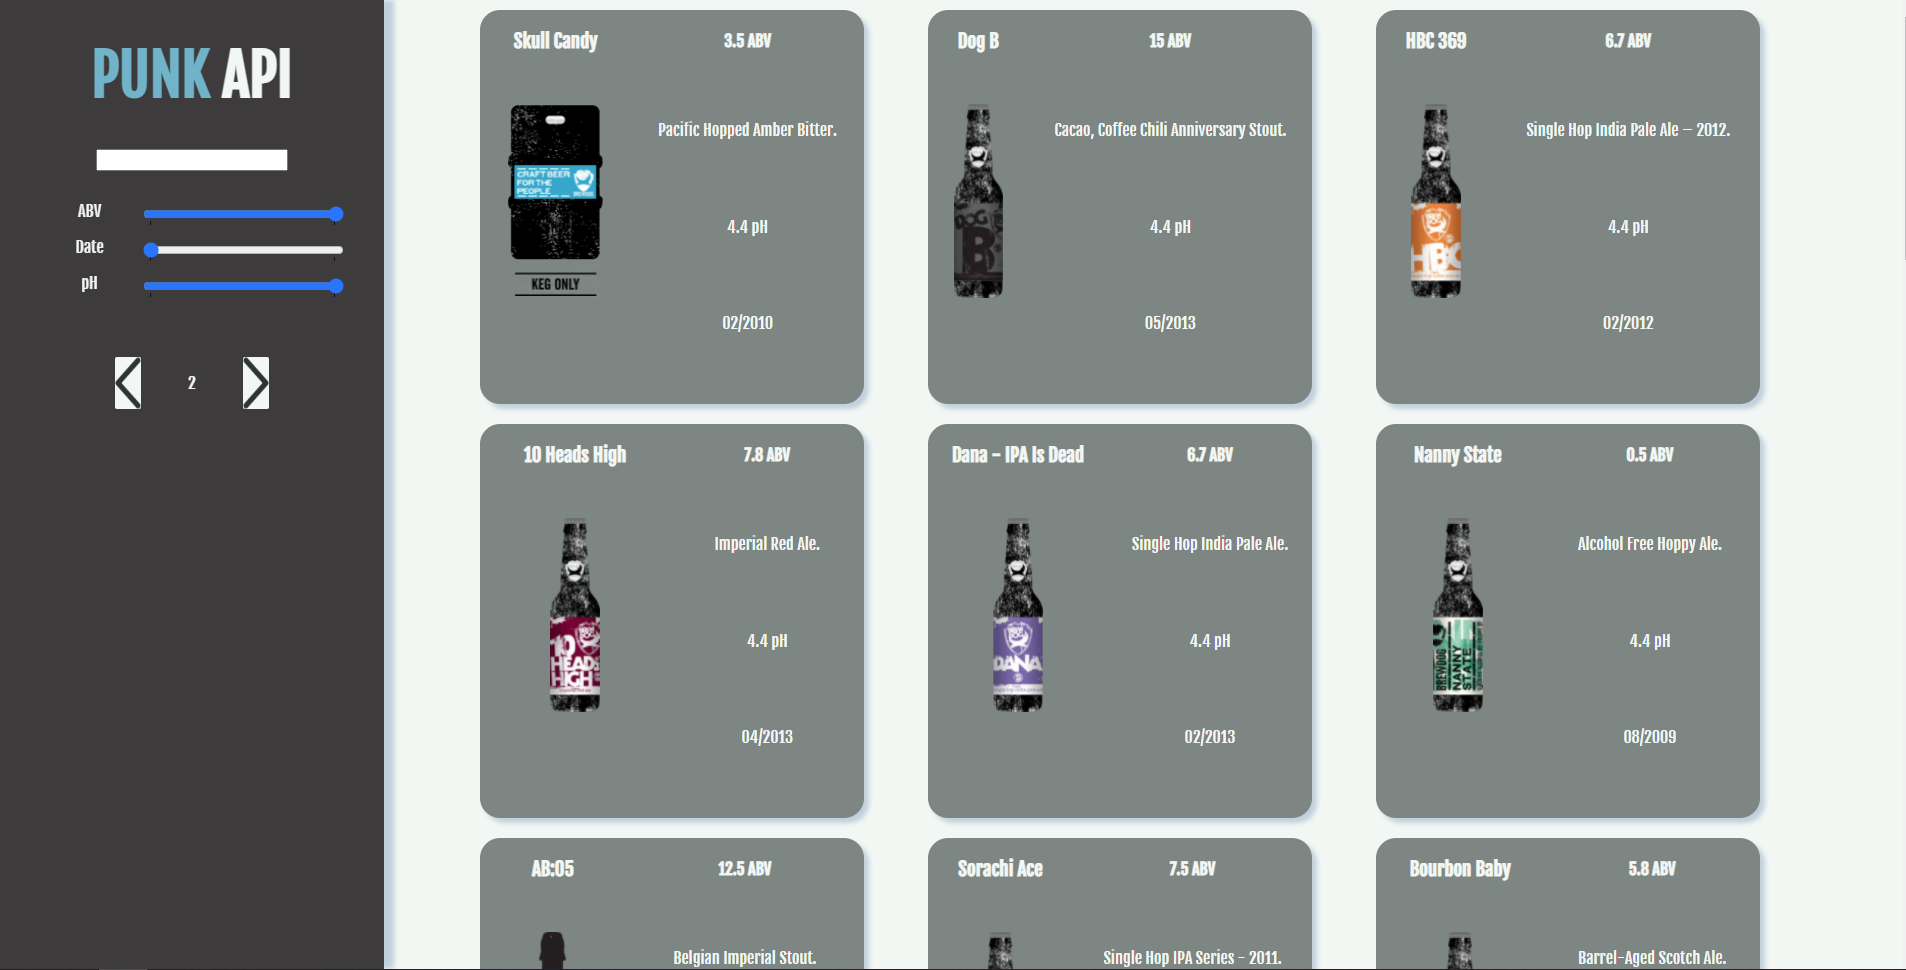
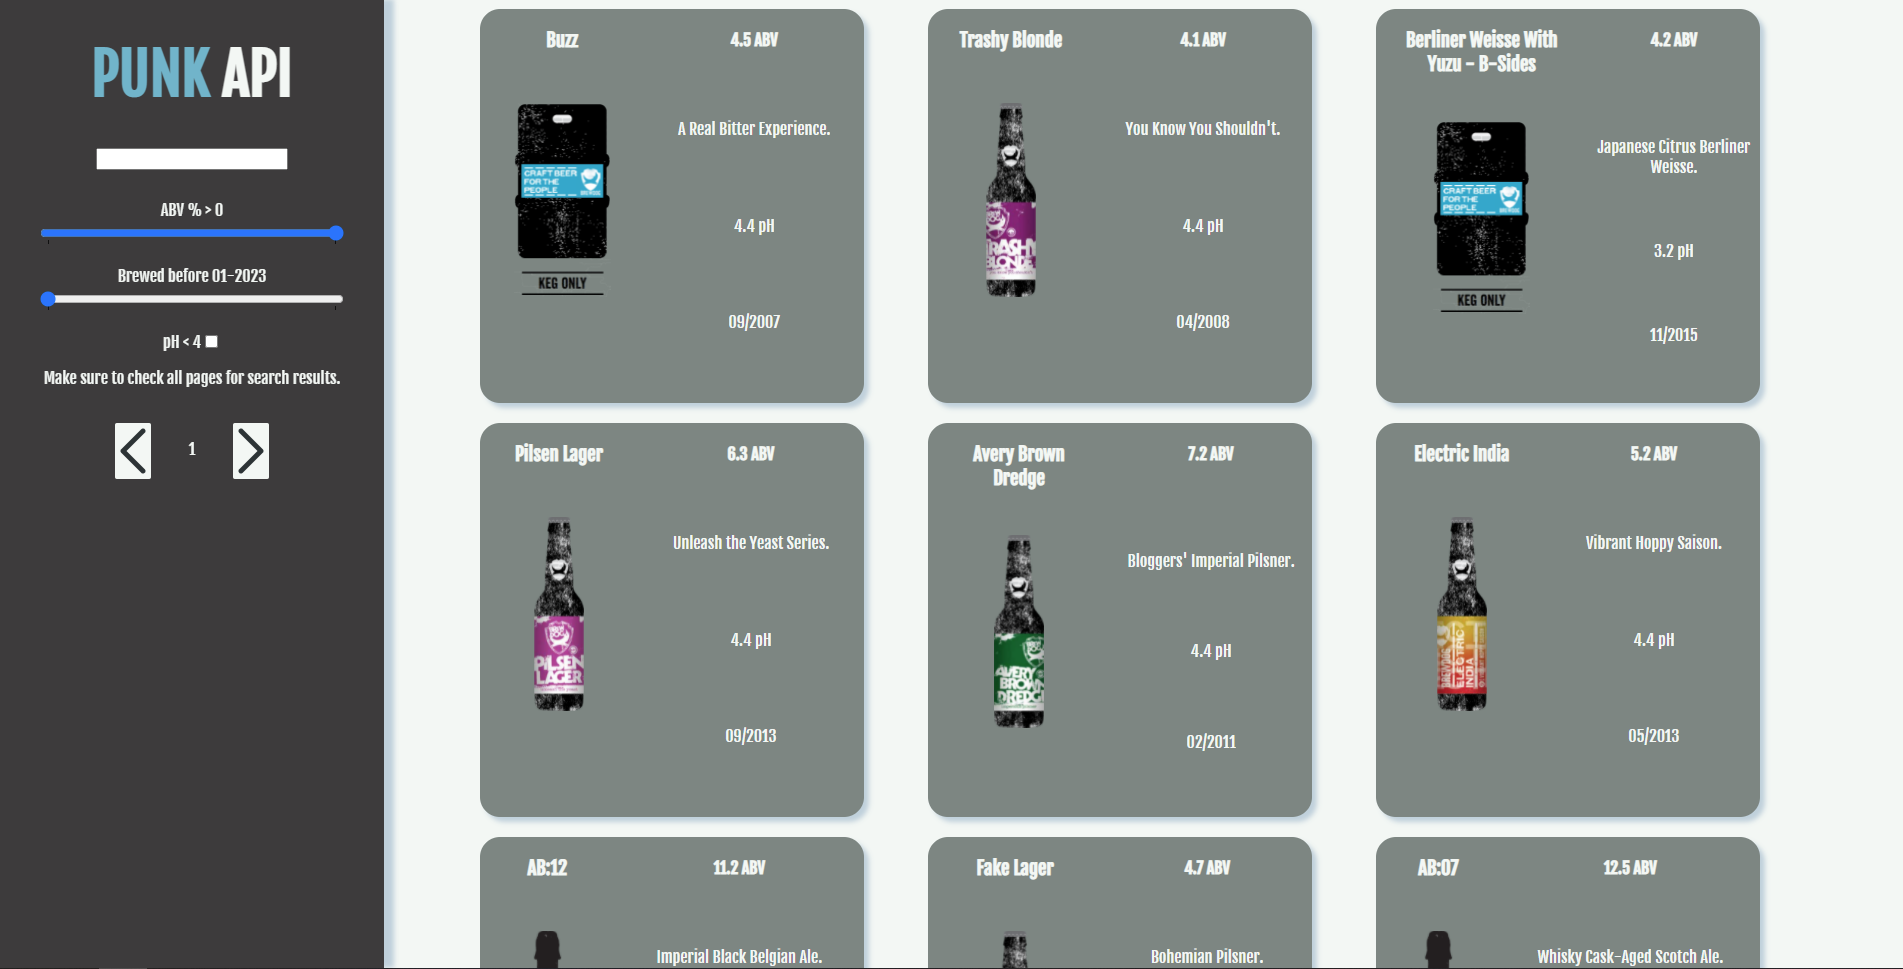
Updates to where filters are handled

diff --git a/src/App.jsx b/src/App.jsx
@@ -5,25 +5,25 @@ import Main from "./containers/Main/Main";
 
 const App = () => {
 
-  const defaultUrl = "https://api.punkapi.com/v2/beers?";
+  const defaultUrl = "https://api.punkapi.com/v2/beers?per_page=80&";
 
   const initialSearchParams = {
     beer_name: "",
-    ph: 0,
     abv_gt: 0,
-    brewed_before: `01-${new Date().getFullYear()+1}`,
+    brewed_before: `01-${Number(new Date().getFullYear())+1}`,
     page: 1
   }
 
   const [beers, setBeers] = useState([]);
   const [apiUrl, setApiUrl] = useState(defaultUrl);
   const [searchParams, setSearchParams] = useState(initialSearchParams);
+  const [usePh, setUsePh] = useState(false);
   
   const getBeersList = (url) => {
     return fetch(url)
       .then(response => response.json())
       .then(data => setBeers(data));
-  }
+  };
 
   useEffect(() => {
     getBeersList(apiUrl);
@@ -37,8 +37,6 @@ const App = () => {
       startingParams.abv_gt = event.target.value;
     } else if(event.target.id === "nav__Date") {
       startingParams.brewed_before = `01-${event.target.value}`;
-    } else if(event.target.id === "nav__pH") {
-      startingParams.ph = event.target.value;  
     } else if(event.target.id === "nav__page-plus") {
       startingParams.page++;
     } else if(event.target.id === "nav__page-minus" && startingParams.page > 1) {
@@ -46,25 +44,22 @@ const App = () => {
     }
     setSearchParams(startingParams);
     updateUrl();
-    changeForPh();
   }
 
-  const changeForPh = () => {
-    const filteredBeerList = beers.filter(beer => {return(beer.ph && (Number(beer.ph) < searchParams.ph))});
-    setBeers(filteredBeerList);
+  const handleUsePh = () => {
+    setUsePh(!usePh);
   }
 
   const updateUrl = () => {
-    let currentUrl = defaultUrl + `page=${searchParams.page}&`;
-    if(searchParams.beer_name) currentUrl += `beer_name=${searchParams.beer_name}&`; 
-    currentUrl += `abv_gt=${searchParams.abv_gt}&brewed_before=${searchParams.brewed_before}`;
+    let currentUrl = defaultUrl + `page=${searchParams.page}&abv_gt=${searchParams.abv_gt}&brewed_before=${searchParams.brewed_before}&`;
+    if(searchParams.beer_name) currentUrl += `beer_name=${searchParams.beer_name}`; 
     setApiUrl(currentUrl);
   }
 
   return (
     <div className="App">
-      <Navbar changeSearchParams={changeSearchParams} currentSearchParams={searchParams}/>
-      <Main beers={beers}/>
+      <Navbar changeSearchParams={changeSearchParams} currentSearchParams={searchParams} handleUsePh={handleUsePh} usePh={usePh}/>
+      <Main beers={beers} usePh={usePh}/>
     </div>
   );
 }

diff --git a/src/containers/Navbar/Navbar.jsx b/src/containers/Navbar/Navbar.jsx
@@ -9,7 +9,9 @@ import rightArrow from "./../../assets/right-arrow.png";
 
 const Navbar = (props) => {
 
-  const {changeSearchParams, currentSearchParams} = props;
+  const {changeSearchParams, currentSearchParams, handleUsePh, usePh} = props;
+
+  const phLabel = `pH < 4`;
 
   return (
     <div className="nav">
@@ -17,10 +19,12 @@ const Navbar = (props) => {
       <div className="nav__search">
         <SearchBox changeSearchParams={changeSearchParams}/>
         <div className="nav__filters">
-          <FilterItem name="nav__ABV" min="0" max="12" step="0.5" changeSearchParams={changeSearchParams}/>
-          <FilterItem name="nav__Date" min="2008" max="2023" step="1" changeSearchParams={changeSearchParams}/>
-          <FilterItem name="nav__pH" min="3" max="6" step="0.2" changeSearchParams={changeSearchParams}/>
+          <FilterItem name="nav__ABV" min="0" max="12" step="0.5" changeSearchParams={changeSearchParams} value={currentSearchParams.abv_gt} label="ABV % > "/>
+          <FilterItem name="nav__Date" min="2008" max="2023" step="1" changeSearchParams={changeSearchParams} value={currentSearchParams.brewed_before} label="Brewed before" />
+          <label htmlFor="nav__ph">{phLabel}</label>
+          <input type="checkbox" checked={usePh} onChange={handleUsePh} id="nav__ph" name="nav__ph"/>
         </div>
+        <p>Make sure to check all pages for search results.</p>
         <div className="nav__change-page">
           <ChangePageButton id="nav__page-plus" img={rightArrow} changeSearchParams={changeSearchParams} />
           <p className="nav__text">{currentSearchParams.page}</p>

diff --git a/src/containers/Cardlist/Cardlist.jsx b/src/containers/Cardlist/Cardlist.jsx
@@ -5,14 +5,19 @@ import "./Cardlist.scss";
 
 const Cardlist = (props) => {
 
-  const {beers} = props;
+  const {beers, usePh} = props;
 
   const displayBeers = (listOfBeers) => {
     const newBeerList = [...listOfBeers];
-    const displayBeerList = newBeerList.map((beer,index) => <Card beerInfo={beer} key={index} />);
+    const filteredBeerList = (usePh) ? filterByPh(newBeerList) : newBeerList;
+    const displayBeerList = filteredBeerList.map((beer,index) => <Card beerInfo={beer} key={index} />);
     return displayBeerList;
   }
-  
+
+  const filterByPh = (beerList) => {
+    return beerList.filter(beer => (beer.ph < 4 && beer.ph));
+  }
+
   return (
     <div className="cardlist">
       {beers && displayBeers(beers)}

diff --git a/src/components/FilterItem/FilterItem.jsx b/src/components/FilterItem/FilterItem.jsx
@@ -2,11 +2,11 @@ import React from 'react'
 
 const FilterItem = (props) => {
 
-  const {name, changeSearchParams, min, max, step} = props;
+  const {name, changeSearchParams, min, max, step, value, label} = props;
 
   return (
     <div className="nav__range">
-      <label htmlFor={name}>{name.replace("nav__", "")}</label>
+      <label htmlFor={name}>{label} {value}</label>
       <input type="range" min={min} max={max} step={step} name={name} onInput={changeSearchParams} id={name} list={`tickmarks-${name}`}/>
       <datalist id={`tickmarks-${name}`}>
         <option value={min} label={min}>{min}</option>

diff --git a/src/containers/Navbar/Navbar.scss b/src/containers/Navbar/Navbar.scss
@@ -29,8 +29,9 @@
   &__range {
     margin-top: 10px;
     display: grid;
-    grid-template-columns: 1fr 2fr;
+    grid-template-columns: 1fr;
     width: 100%;
+    margin-bottom: 20px;
   }
 
   #search-box {
@@ -40,12 +41,13 @@
   &__change-search {
     background-color: #F3F7F4;
     border-radius: 2px;
+    padding: 5px;
   }
 
   &__change-page {
     width: 50%;
     margin-left: 25%;
-    margin-top: 3vw;
+    margin-top: 1vw;
     display: flex;
     justify-content: space-between;
     flex-direction: row-reverse;

diff --git a/src/containers/Main/Main.jsx b/src/containers/Main/Main.jsx
@@ -4,10 +4,10 @@ import Cardlist from "./../Cardlist/Cardlist";
 
 const Main = (props) => {
 
-  const {beers} = props;
+  const {beers, usePh} = props;
   return (
     <div className="main">
-      <Cardlist beers={beers}/>
+      <Cardlist beers={beers} usePh={usePh}/>
     </div>
   )
 }

diff --git a/README.md b/README.md
@@ -49,4 +49,6 @@ If there are any issues with the website please contact me at williambusby1999@g
 
 ## Screenshots
 
-![Desktop View]()
+Desktop view
+
+![Desktop View](https://github.com/WilliamBusby/punk-api/blob/main/src/assets/README_desktop.PNG)
